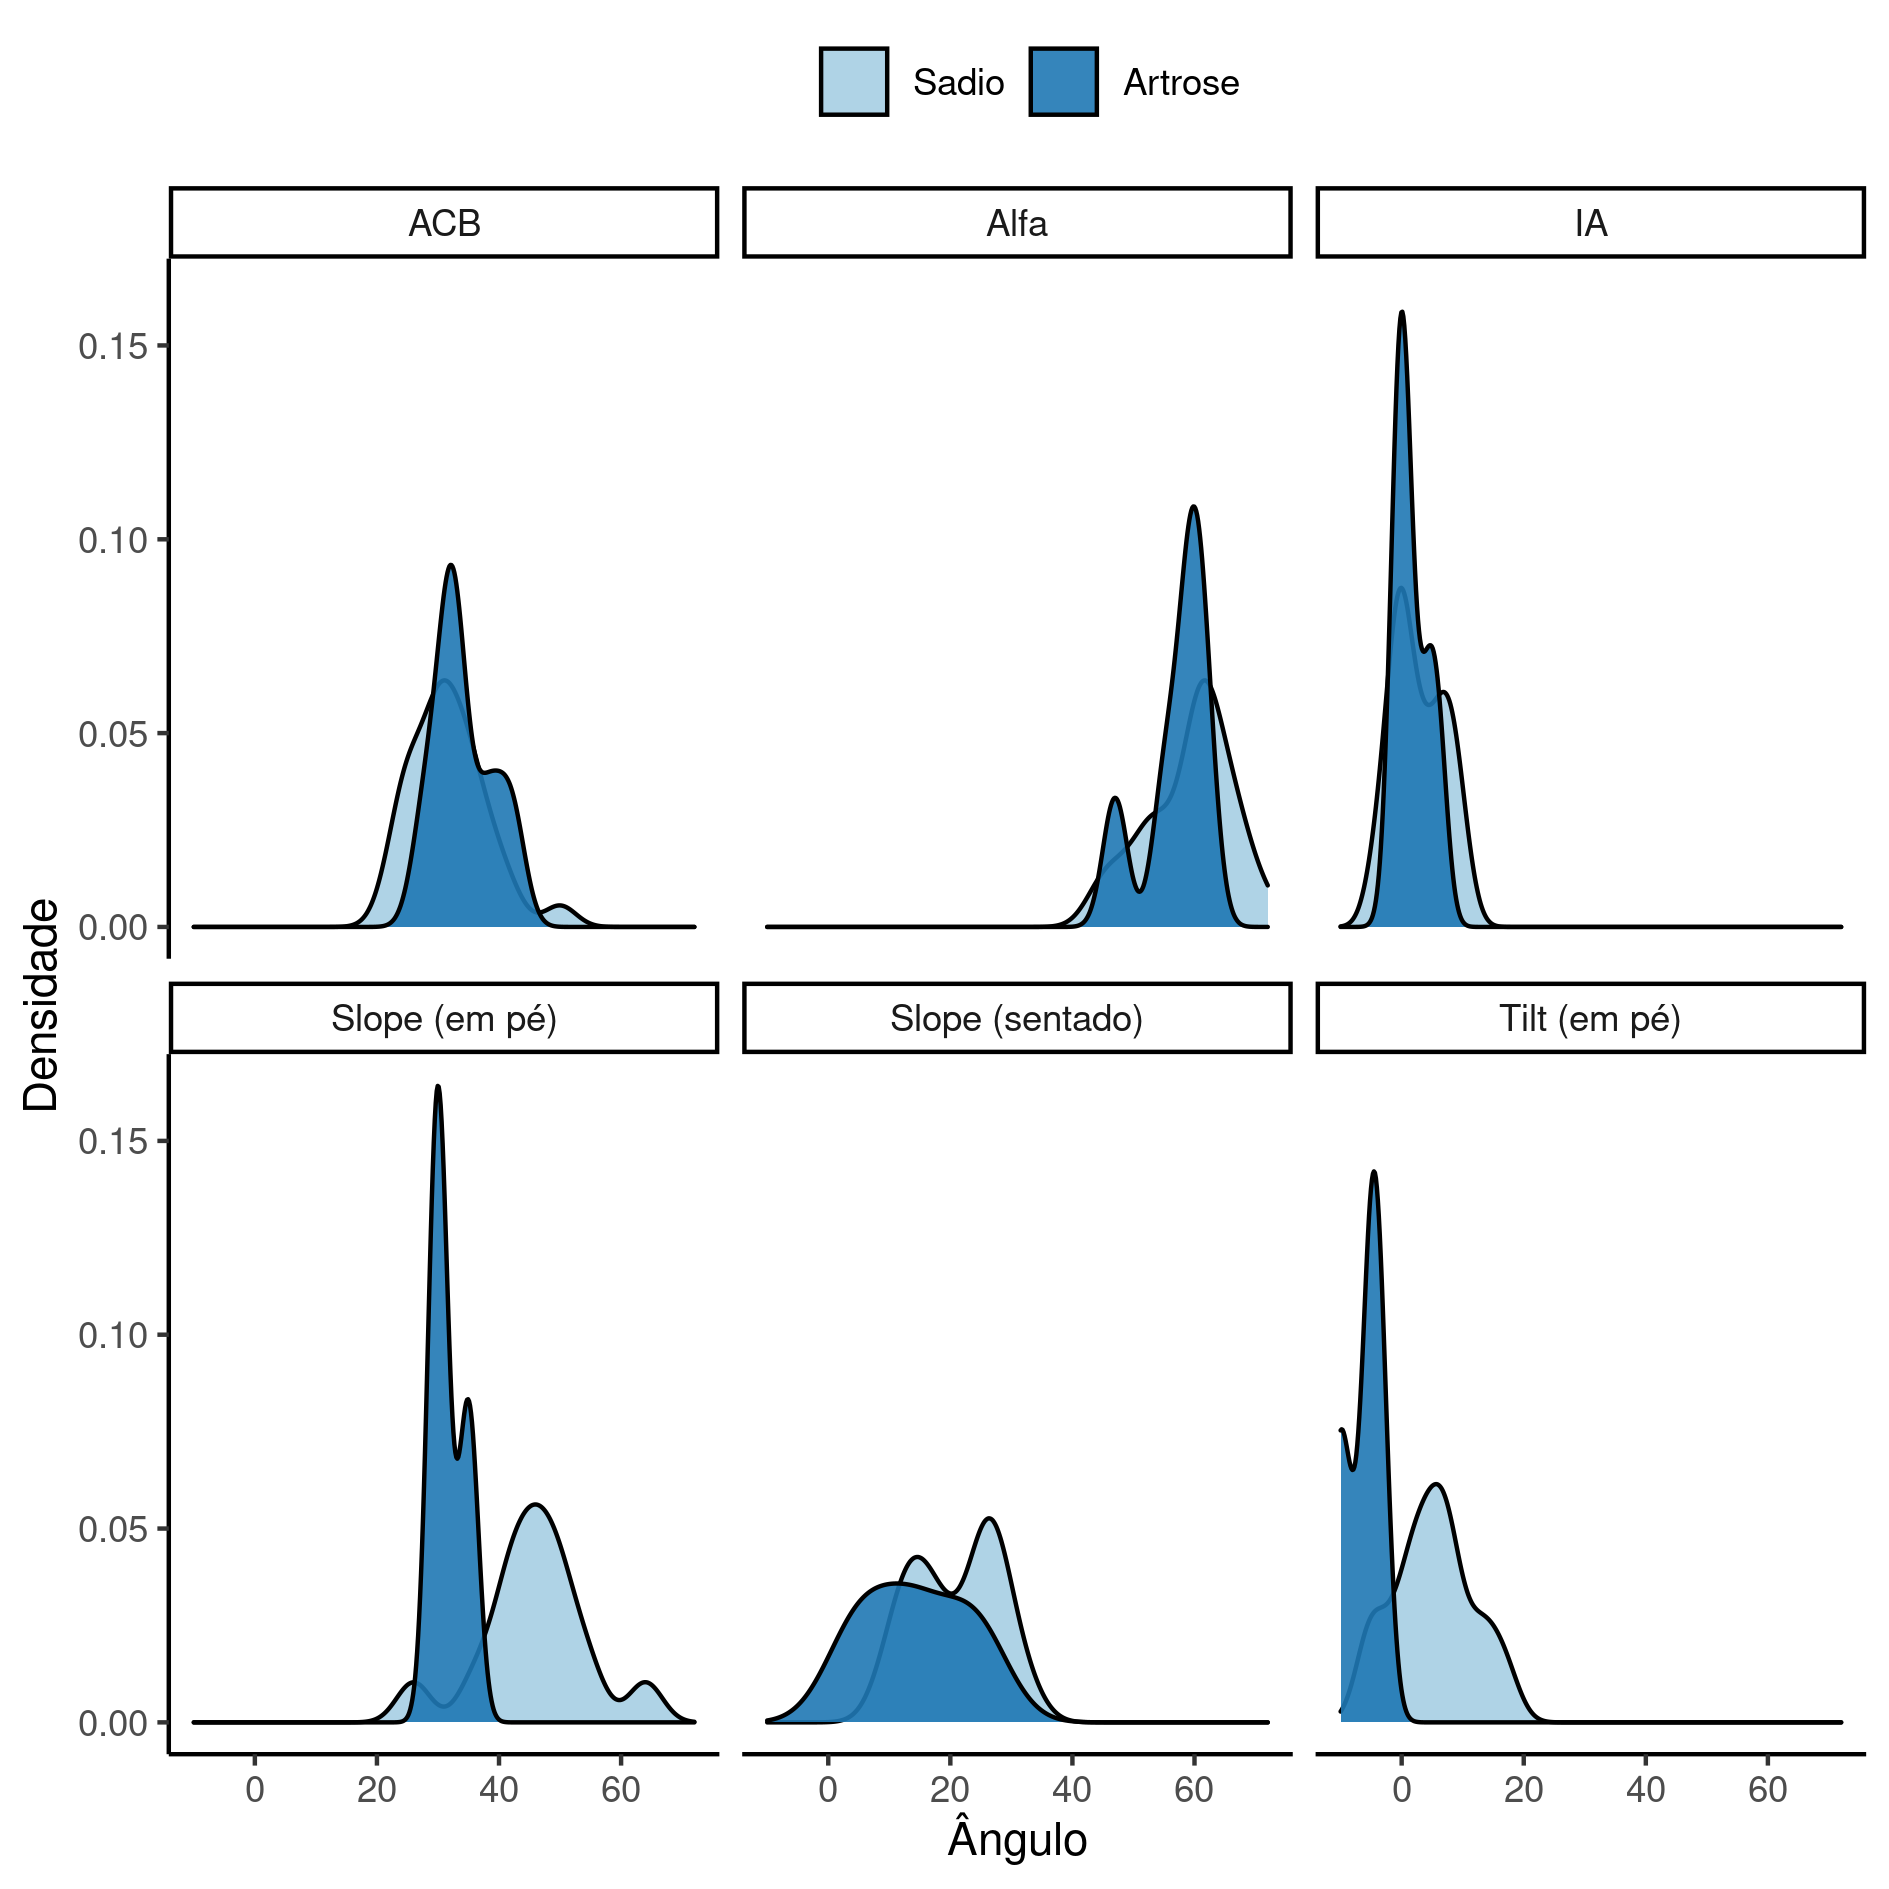
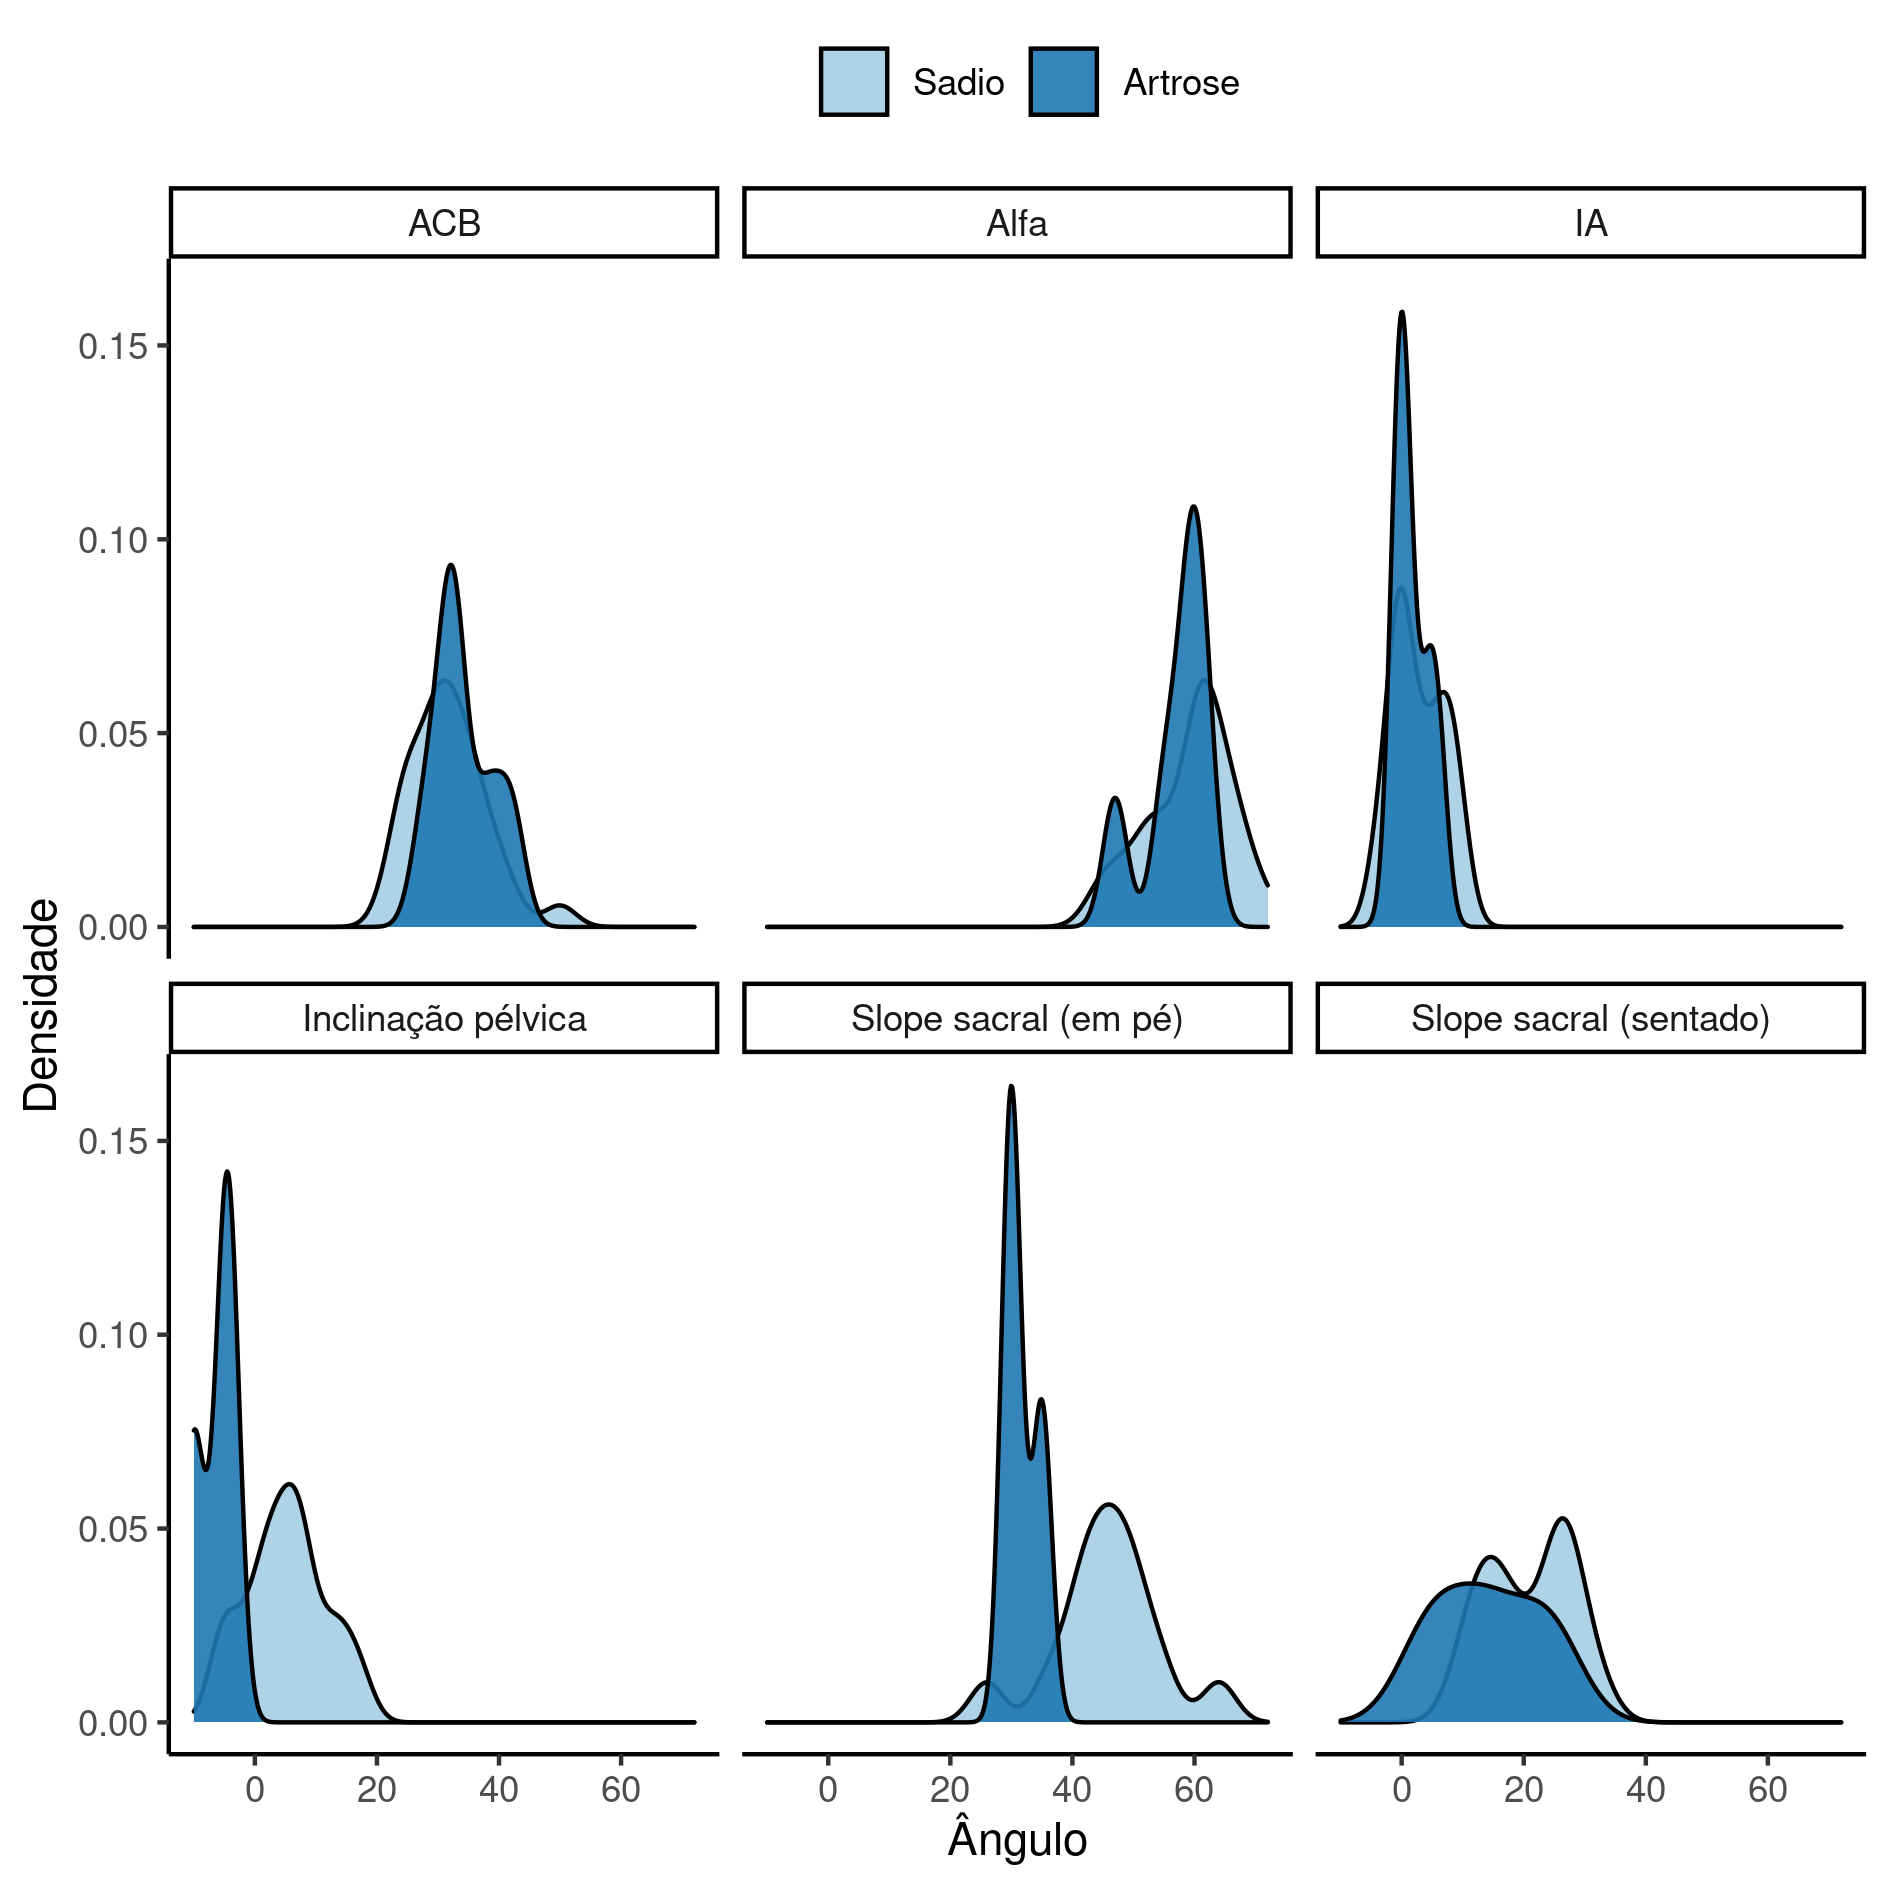
tilt = inclinação pélvica; slope = sacral + usar labels em plots.R

diff --git a/report/SAR-2021-014-FP-v01.md b/report/SAR-2021-014-FP-v01.md
@@ -180,14 +180,14 @@ O slope sentado não foi significativamente diferente (ANCOVA 2.2, IC: -3.8 -- 8
 
 Table: **Tabela 2** Diferenças ajustadas dos ângulos espinopélvicos na população do estudo.
 
-|**Ângulos**         | **Artrose**, N = 6 | **Sadio**, N = 28 | **Diferença ajustada** |**95% CI** | **valor p** |
-|:-------------------|:------------------:|:-----------------:|:----------------------:|:----------|:-----------:|
-|__Slope (em pé)__   |       32 (3)       |      46 (9)       |          -11           |-19, -3.4  |  __0.006__  |
-|__Slope (sentado)__ |       14 (9)       |      21 (7)       |          2.2           |-3.8, 8.2  |     0.5     |
-|__Tilt (em pé)__    |       -6 (3)       |       5 (6)       |          -8.7          |-15, -2.0  |  __0.013__  |
-|__ACB__             |     34.2 (5.0)     |    31.8 (6.2)     |         -0.61          |-6.8, 5.6  |     0.8     |
-|__IA__              |     1.7 (2.7)      |     2.8 (4.2)     |          0.40          |-4.2, 5.0  |     0.9     |
-|__Alfa__            |       57 (5)       |      59 (7)       |          3.2           |-4.1, 10   |     0.4     |
+|**Ângulos**                | **Artrose**, N = 6 | **Sadio**, N = 28 | **Diferença ajustada** |**95% CI** | **valor p** |
+|:--------------------------|:------------------:|:-----------------:|:----------------------:|:----------|:-----------:|
+|__Slope sacral (em pé)__   |       32 (3)       |      46 (9)       |          -11           |-19, -3.4  |  __0.006__  |
+|__Slope sacral (sentado)__ |       14 (9)       |      21 (7)       |          2.2           |-3.8, 8.2  |     0.5     |
+|__Inclinação pélvica__     |       -6 (3)       |       5 (6)       |          -8.7          |-15, -2.0  |  __0.013__  |
+|__ACB__                    |     34.2 (5.0)     |    31.8 (6.2)     |         -0.61          |-6.8, 5.6  |     0.8     |
+|__IA__                     |     1.7 (2.7)      |     2.8 (4.2)     |          0.40          |-4.2, 5.0  |     0.9     |
+|__Alfa__                   |       57 (5)       |      59 (7)       |          3.2           |-4.1, 10   |     0.4     |
 
 Os outros ângulos espino-pélvicos tiveram distribuições semelhantes entre os dois grupos.
 Após ajustar pelo sexo, idade e IMC dos participantes as diferenças médias entre os grupos foram pequenas relativas ao tamanho do estudo.
